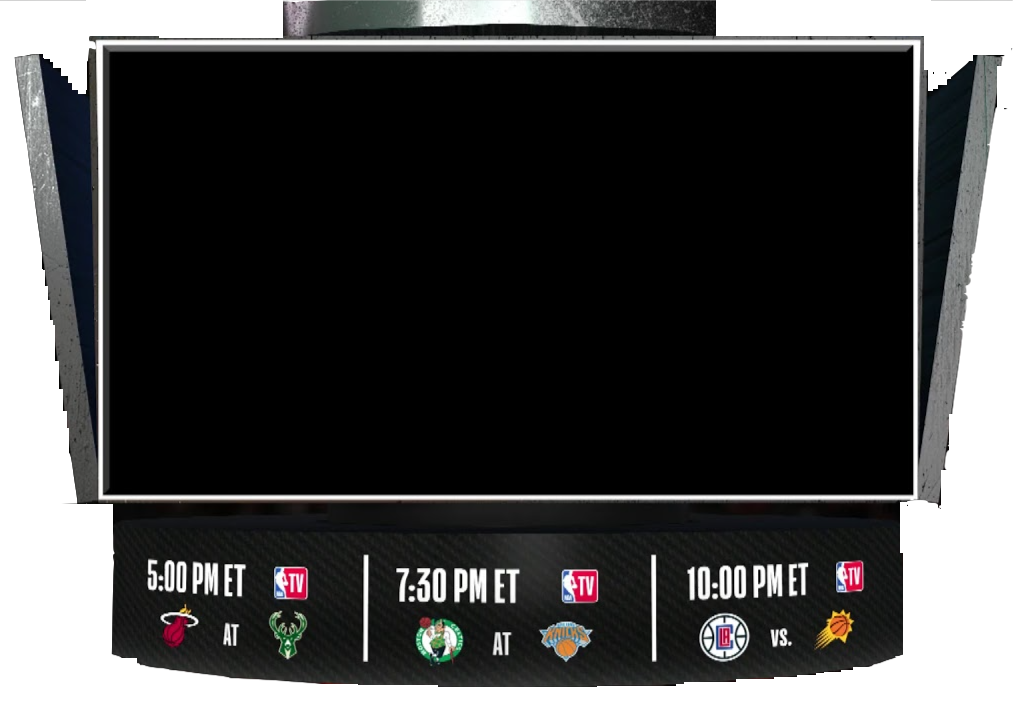
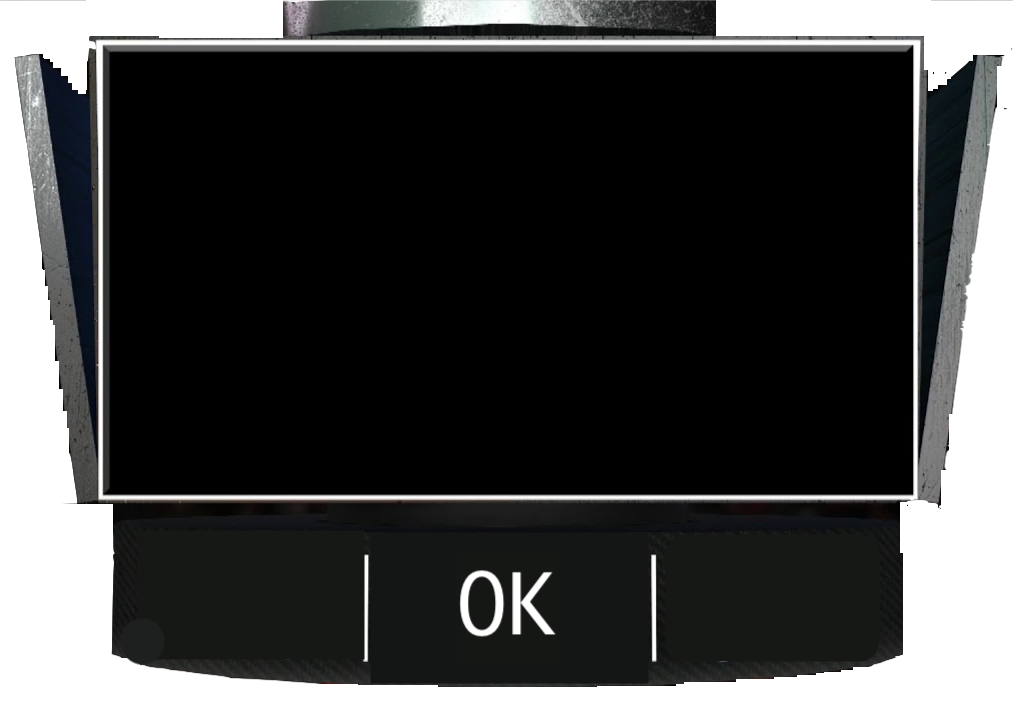
fixed a few little things, about to try and get point count on alert working

diff --git a/src/components/App.js b/src/components/App.js
@@ -6,10 +6,10 @@ import importedCsvData from '../assets/players.csv';
 import Images from'../Images';
 import BasketballButton from "../assets/images/basketball-button.png";
 import PlayerCard from './PlayerCard';
-import Scoreboard from './Scoreboard';
+// import Scoreboard from './Scoreboard'; // prob gonna just get rid of this 
 
 // working on... 
-//1. scoreboard text flashing 
+
 // 2. get scorebard working * add state count to playerCard???
 
 
@@ -111,8 +111,6 @@ handleAlerts = () => {
 
     return (
       <div > 
-
-        <Scoreboard />
  
         <div className="basketball-container"> 
         <img className="basketball" src={BasketballButton} onClick={this.handleBasketballButton } alt="click this basketball button to get a new matchup"/>

diff --git a/src/components/PlayerCard.css b/src/components/PlayerCard.css
@@ -90,7 +90,7 @@
   .confirmButton {
     /* margin-top: 3rem; */
     position: absolute;
-    left: 17.5%;
+    left: 39%;
     top: 71.5%;
     background: none;
     /* color: white;
@@ -98,8 +98,8 @@
     font-family: Codystar; 
     /* keeping font properties even though can't see text because it helps with sizing of button */
     font-weight: bolder;
-    font-size: 1.25rem;
-    padding: .3em 6.5em;
+    font-size: 1.5rem;
+    padding: .75em 2em;
     border: none;
     cursor: pointer;
   }

diff --git a/src/components/PlayerCard.js b/src/components/PlayerCard.js
@@ -43,6 +43,7 @@ $(function(e){
     $(window).focus().keypress(function(e){
         if(e.charCode === 13) {
             $('.customAlert').css('animation', 'fadeOut 0.3s linear');
+            $(".basketball-container").show().css("animation", "fadeIn 0.3s linear");
 
             
 
